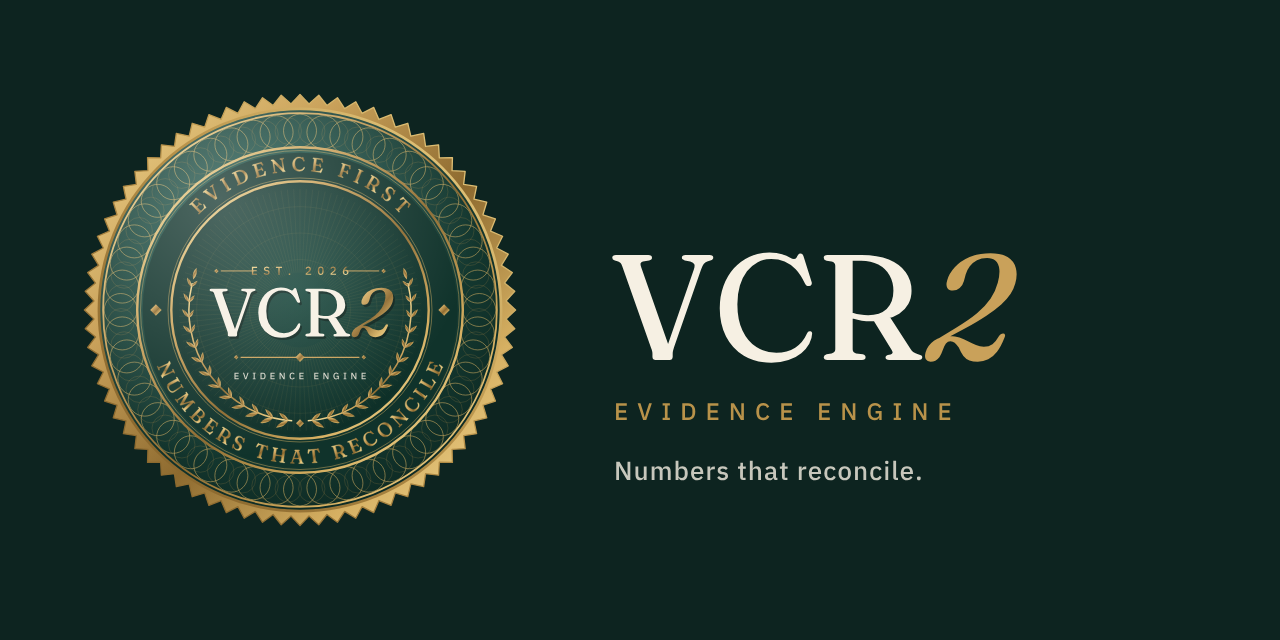
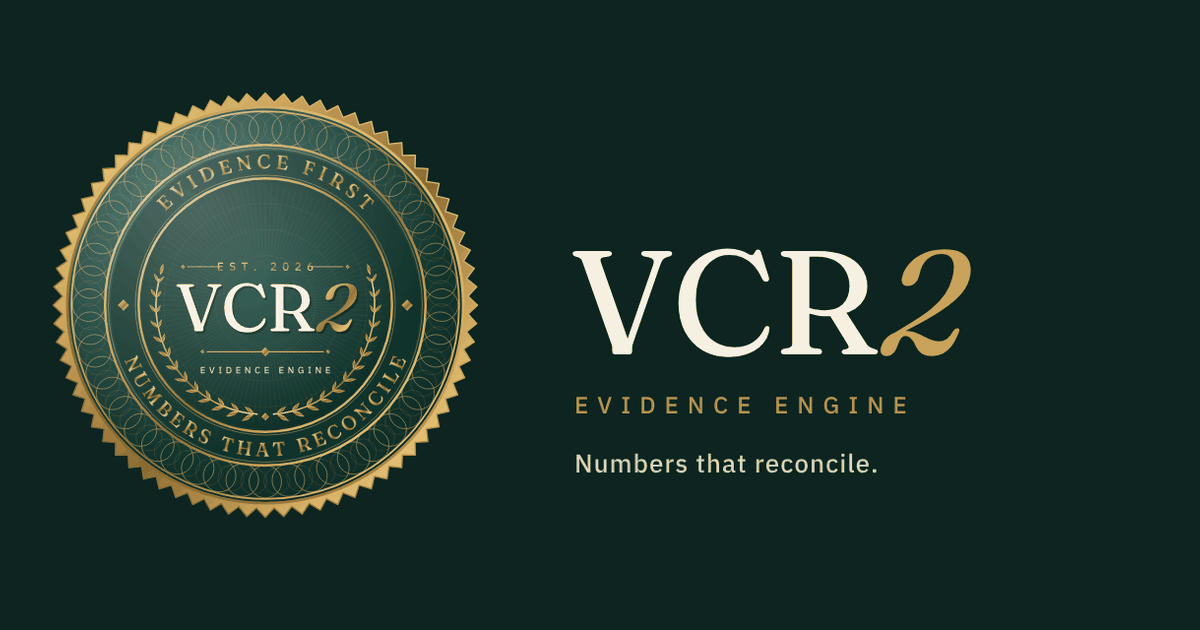
Add a plain AI notice by the Extract button, a 1200 by 630 link preview, a 404 page, a daily uptime check, fresh README screenshots, and cap absurd target returns
Shipped with vcr2-ship

diff --git a/index.html b/index.html
@@ -3,7 +3,7 @@
 <head>
 <meta charset="UTF-8" />
 
-<meta http-equiv="Content-Security-Policy" content="default-src 'none'; script-src 'self' 'unsafe-inline'; script-src-elem 'sha256-n29Q1vFnE6WbRlMeOxGV9fg7LpGFcMmABBgz34A+tJQ=' 'sha256-n1z8jkD0ndqOpk79KGMV0kjI1pRdCcU7IxhPgDxDR+w=' 'sha256-FiB3jNUyHkIPSiuBC/QhYnA1OC91lGmUIv7W6OshGWc='; script-src-attr 'unsafe-inline'; style-src 'self' 'unsafe-inline' file:; img-src 'self' data: blob: file:; font-src 'self' data: file:; connect-src 'self' https://api.github.com https://api.anthropic.com https://api.openai.com https://generativelanguage.googleapis.com https://api.groq.com https://openrouter.ai; worker-src 'self' blob:; media-src 'self' file:; frame-src 'none'; base-uri 'none'; form-action 'none'; object-src 'none'" />
+<meta http-equiv="Content-Security-Policy" content="default-src 'none'; script-src 'self' 'unsafe-inline'; script-src-elem 'sha256-n29Q1vFnE6WbRlMeOxGV9fg7LpGFcMmABBgz34A+tJQ=' 'sha256-n1z8jkD0ndqOpk79KGMV0kjI1pRdCcU7IxhPgDxDR+w=' 'sha256-nK5LsWHbe+/chek/4QjKiXwz6H2ErcPrDMyRaxxfnQM='; script-src-attr 'unsafe-inline'; style-src 'self' 'unsafe-inline' file:; img-src 'self' data: blob: file:; font-src 'self' data: file:; connect-src 'self' https://api.github.com https://api.anthropic.com https://api.openai.com https://generativelanguage.googleapis.com https://api.groq.com https://openrouter.ai; worker-src 'self' blob:; media-src 'self' file:; frame-src 'none'; base-uri 'none'; form-action 'none'; object-src 'none'" />
 <meta name="referrer" content="no-referrer" />
 <meta name="viewport" content="width=device-width, initial-scale=1.0" />
 <title>VCR2: evidence-first diligence engine</title>
@@ -16,8 +16,8 @@
 <meta property="og:title" content="VCR2: check whether the numbers reconcile" />
 <meta property="og:description" content="Rebuilds a startup's revenue from its own customer ledger, reconciles every headline metric, runs forensic tests, simulates runway, prices the deal and learns from your own deal data. Runs entirely in the browser." />
 <meta property="og:image" content="https://vcr2.app/assets/social-preview.png" />
-<meta property="og:image:width" content="1280" />
-<meta property="og:image:height" content="640" />
+<meta property="og:image:width" content="1200" />
+<meta property="og:image:height" content="630" />
 <meta property="og:image:alt" content="VCR2: check whether the numbers reconcile" />
 <meta name="twitter:card" content="summary_large_image" />
 <meta name="twitter:title" content="VCR2: check whether the numbers reconcile" />
@@ -1443,6 +1443,7 @@ Your browser cannot play this video. <a href="assets/video/vcr2-demo-en.mp4">Dow
 </div>
 
 <p class="field-hint ai-own">Uses your own key and your own account. Nothing is billed to the site owner.</p>
+<p class="field-hint ai-sent">“Extract figures with AI” sends only the text in the boxes above, and any files you added here, to the AI provider you chose in the menu, with your key. Nothing else from the form is sent. The key stays in this tab and is forgotten when you close it, unless you tick “Remember this key on this computer”; it is never saved in a deal, a draft or an export.</p>
 <div class="sec-nav">
 <button class="btn btn-ghost" onclick="showPage('setup')">Back</button>
 <div class="sec-nav-right">
@@ -2118,7 +2119,7 @@ function termReview(I,X){const out=[];const add=(term,value,norm,flag,note)=>out
 :bc==='Founders control the board'&&!early?'Common, but at this stage an independent director usually joins.':'In line with the stage.');const prr=gb('pro_rata_rights'),inf=gb('information_rights'),seat=gb('board_seat');if(prr!=null)add('Pro-rata rights',prr?'Yes':'No','Yes, for major investors',prr?'ok':'watch',prr?'We can keep our ownership in the next round.':'No right to follow on: ownership shrinks with every round and the best companies are the hardest to get back into.');if(inf!=null)add('Information rights',inf?'Yes':'No','Yes: quarterly and annual financials',inf?'ok':'watch',inf?'Standard.':'Without them, monitoring the investment depends on goodwill.');if(seat!=null)add('Board or observer seat',seat?'Yes':'No',X.ownEntry!=null&&X.ownEntry>=seatAt?`Usual for a lead with ${fmtPct(seatAt * 100, 0)}+`:`Not expected below ~${fmtPct(seatAt * 100, 0)}`,!seat&&X.ownEntry!=null&&X.ownEntry>=seatAt?'watch':'ok',!seat&&X.ownEntry!=null&&X.ownEntry>=seatAt?`At ${fmtPct(X.ownEntry * 100, 1)} ownership a seat or observer right is normally part of the package.`:'In line with the ownership.');if(X.fTop>0.001)add('Option pool',`top-up of ${fmtPct(X.fTop * 100, 1)} in the pre-money`,'Sized to the hiring plan',X.fTop>poolMax?'watch':'ok',`The pool shuffle lowers the effective pre-money to ${money(X.effPre)}. Check the pool against the 18-month hiring plan rather than a round number.`);const conv=X.fSafe+(X.fNote||0);if(conv>0.001)add('SAFE and note conversion',`${fmtPct(conv * 100, 1)} of the post-money`,'Disclosed in the pre-money',conv>convMax?'watch':'ok','Conversions come out of the pre-money, so the founders (not the new round) absorb them.');return out;}
 const EXIT_DEFAULTS={years:{preseed:8,seed:7,a:6,b:5},irr:{preseed:60,seed:50,a:40,b:30},fcRate:25,probs:{preseed:[65,25,10],seed:[60,28,12],a:[45,40,15],b:[30,50,20]},keepBase:0.7,keepUp:0.85,floorBase:5,floorUp:10,downMultiple:1,};function projectArr(arr,g0,years,keep,floor){let a=arr,g=Math.min(Math.max(g0,0),300);const whole=Math.floor(years),part=years-whole;for(let y=0;y<whole;y++){a*=1+Math.max(g,floor) / 100;g*=keep;}
 if(part>0)a*=Math.pow(1+Math.max(g,floor) / 100,part);return a;}
-function exitScenarios(D,X){const I=X.I,n=id=>gv(id);const years=n('years_to_exit')>0?n('years_to_exit'):EXIT_DEFAULTS.years[stageKey()];const r=n('target_irr')>0?n('target_irr'):EXIT_DEFAULTS.irr[stageKey()];const fc=n('fc_rate')>0?n('fc_rate'):EXIT_DEFAULTS.fcRate;const arr=n('arr_now');const g=D.growth_yoy!=null?D.growth_yoy:D.cmgr12!=null?(Math.pow(1+D.cmgr12 / 100,12)-1)*100:null;const est=[];let arrBase=n('exit_arr_base'),arrUp=n('exit_arr_up'),evDown=n('exit_value_down');if(arrBase==null&&arr>0&&g!=null){arrBase=projectArr(arr,g,years,EXIT_DEFAULTS.keepBase,EXIT_DEFAULTS.floorBase);est.push('base');}
+function exitScenarios(D,X){const I=X.I,n=id=>gv(id);const years=n('years_to_exit')>0?n('years_to_exit'):EXIT_DEFAULTS.years[stageKey()]; const cap=(v,what)=>{if(v>200){X.notes.push(`${what} was ${v}%, above 200%; 200% was used.`);return 200;}return v;};const r=cap(n('target_irr')>0?n('target_irr'):EXIT_DEFAULTS.irr[stageKey()],'The target annual return');const fc=cap(n('fc_rate')>0?n('fc_rate'):EXIT_DEFAULTS.fcRate,'The First Chicago discount rate');const arr=n('arr_now');const g=D.growth_yoy!=null?D.growth_yoy:D.cmgr12!=null?(Math.pow(1+D.cmgr12 / 100,12)-1)*100:null;const est=[];let arrBase=n('exit_arr_base'),arrUp=n('exit_arr_up'),evDown=n('exit_value_down');if(arrBase==null&&arr>0&&g!=null){arrBase=projectArr(arr,g,years,EXIT_DEFAULTS.keepBase,EXIT_DEFAULTS.floorBase);est.push('base');}
 if(arrUp==null&&arr>0&&g!=null){arrUp=projectArr(arr,g,years,EXIT_DEFAULTS.keepUp,EXIT_DEFAULTS.floorUp);est.push('upside');}
 if(arrUp!=null&&arrBase!=null&&arrUp<arrBase)arrUp=arrBase;if(evDown==null){evDown=arr>0?arr*(EXIT_DEFAULTS.downMultiple!=null?EXIT_DEFAULTS.downMultiple:1):0;est.push('downside');}
 if(arrBase==null)return{missing:true,years,r};const dp=EXIT_DEFAULTS.probs[stageKey()];let p=[n('prob_down'),n('prob_base'),n('prob_up')];let probsEstimated=p.every(v=>v==null);const probsPartial=!probsEstimated&&p.some(v=>v==null);p=p.map((v,i)=>v!=null?Math.max(0,v):dp[i]);if(sum(p)<=0){p=dp.slice();probsEstimated=true;}

diff --git a/404.html b/404.html
@@ -1,0 +1,40 @@
+<!doctype html>
+<html lang="en">
+<head>
+<meta http-equiv="Content-Security-Policy" content="default-src 'none'; img-src 'self'; font-src 'self'; style-src 'unsafe-inline'; base-uri 'none'; form-action 'none'" />
+<meta charset="utf-8" />
+<meta name="viewport" content="width=device-width, initial-scale=1" />
+<meta name="referrer" content="no-referrer" />
+<meta name="robots" content="noindex" />
+<meta name="color-scheme" content="light dark" />
+<title>Page not found · VCR2</title>
+<link rel="icon" href="/assets/logo/svg/seal-favicon.svg" type="image/svg+xml" />
+<style>
+@font-face { font-family: 'Fraunces'; src: url('/assets/fonts/fraunces-400-normal.woff2') format('woff2'); font-weight: 400; font-display: swap; }
+@font-face { font-family: 'IBM Plex Sans'; src: url('/assets/fonts/ibm-plex-sans-400-normal.woff2') format('woff2'); font-weight: 400; font-display: swap; }
+@font-face { font-family: 'IBM Plex Sans'; src: url('/assets/fonts/ibm-plex-sans-500-normal.woff2') format('woff2'); font-weight: 500; font-display: swap; }
+:root { --page: #F6EFDF; --card: #FBF6EA; --text: #0E3B34; --text-2: #2D4B45; --gold: #946F2C; --ring: rgba(201,161,90,.55); --btn: #0E3B34; --btn-ink: #F6F1E6; }
+@media (prefers-color-scheme: dark) { :root { --page: #0B2B26; --card: #10342E; --text: #F3ECDD; --text-2: #DCD4C2; --gold: #D9B26A; --btn: #F3ECDD; --btn-ink: #0B2B26; } }
+* { box-sizing: border-box; }
+body { margin: 0; min-height: 100vh; display: grid; place-items: center; padding: 16px; background: var(--page); color: var(--text);
+  font-family: 'IBM Plex Sans', system-ui, sans-serif; line-height: 1.6; }
+main { width: 100%; max-width: 34rem; background: var(--card); border: 1px solid var(--ring); border-radius: 22px; padding: 40px 32px; text-align: center;
+  box-shadow: 0 18px 50px -24px rgba(122, 90, 31, .35); }
+img { width: 72px; height: 72px; }
+.k { margin: 18px 0 4px; font-size: .875rem; letter-spacing: .04em; color: var(--gold); }
+h1 { margin: 0 0 10px; font-family: 'Fraunces', Georgia, serif; font-weight: 400; font-size: 2rem; line-height: 1.15; }
+p { margin: 0 0 24px; color: var(--text-2); }
+a.b { display: inline-block; padding: 10px 22px; border-radius: 999px; background: var(--btn); color: var(--btn-ink); font-weight: 500; text-decoration: none; }
+a.b:focus-visible { outline: 3px solid var(--ring); outline-offset: 3px; }
+</style>
+</head>
+<body>
+<main>
+  <img src="/assets/logo/svg/seal-compact.svg" alt="" width="72" height="72" />
+  <p class="k">404</p>
+  <h1>This page does not exist</h1>
+  <p>The address may be mistyped, or the page may have moved. VCR2 itself lives on one page.</p>
+  <a class="b" href="/">Go to VCR2</a>
+</main>
+</body>
+</html>

diff --git a/src/shell.html b/src/shell.html
@@ -17,8 +17,8 @@
 <meta property="og:title" content="VCR2: check whether the numbers reconcile" />
 <meta property="og:description" content="Rebuilds a startup's revenue from its own customer ledger, reconciles every headline metric, runs forensic tests, simulates runway, prices the deal and learns from your own deal data. Runs entirely in the browser." />
 <meta property="og:image" content="@@SITE_URL@@assets/social-preview.png" />
-<meta property="og:image:width" content="1280" />
-<meta property="og:image:height" content="640" />
+<meta property="og:image:width" content="1200" />
+<meta property="og:image:height" content="630" />
 <meta property="og:image:alt" content="VCR2: check whether the numbers reconcile" />
 <meta name="twitter:card" content="summary_large_image" />
 <meta name="twitter:title" content="VCR2: check whether the numbers reconcile" />
@@ -303,6 +303,7 @@
         </div>
 
         <p class="field-hint ai-own">Uses your own key and your own account. Nothing is billed to the site owner.</p>
+        <p class="field-hint ai-sent">“Extract figures with AI” sends only the text in the boxes above, and any files you added here, to the AI provider you chose in the menu, with your key. Nothing else from the form is sent. The key stays in this tab and is forgotten when you close it, unless you tick “Remember this key on this computer”; it is never saved in a deal, a draft or an export.</p>
         <div class="sec-nav">
           <button class="btn btn-ghost" onclick="showPage('setup')">Back</button>
           <div class="sec-nav-right">

diff --git a/src/deal.js b/src/deal.js
@@ -343,8 +343,10 @@ function projectArr(arr, g0, years, keep, floor) {
 function exitScenarios(D, X) {
   const I = X.I, n = id => gv(id);
   const years = n('years_to_exit') > 0 ? n('years_to_exit') : EXIT_DEFAULTS.years[stageKey()];
-  const r = n('target_irr') > 0 ? n('target_irr') : EXIT_DEFAULTS.irr[stageKey()];
-  const fc = n('fc_rate') > 0 ? n('fc_rate') : EXIT_DEFAULTS.fcRate;
+  /* A return above 200% a year is a typo, not a target: it is limited and the deal notes say so (it would otherwise give "n/a"). */
+  const cap = (v, what) => { if (v > 200) { X.notes.push(`${what} was ${v}%, above 200%; 200% was used.`); return 200; } return v; };
+  const r = cap(n('target_irr') > 0 ? n('target_irr') : EXIT_DEFAULTS.irr[stageKey()], 'The target annual return');
+  const fc = cap(n('fc_rate') > 0 ? n('fc_rate') : EXIT_DEFAULTS.fcRate, 'The First Chicago discount rate');
   const arr = n('arr_now');
   const g = D.growth_yoy != null ? D.growth_yoy : D.cmgr12 != null ? (Math.pow(1 + D.cmgr12 / 100, 12) - 1) * 100 : null;
   const est = [];

diff --git a/tests/browser/logo_test.py b/tests/browser/logo_test.py
@@ -8,6 +8,7 @@ the CNAME file are not). No request leaves the site.
 import os as _os, sys as _sys
 _sys.path.insert(0, _os.path.dirname(_os.path.abspath(__file__)))
 import _paths
+import re
 import asyncio, sys, re, json, pathlib, struct
 from playwright.async_api import async_playwright
 import fontroute
@@ -36,7 +37,11 @@ async def main():
     check('the SVG files have no script, embedded image or outside address', not bad, bad)
 
     sp = ROOT / 'assets' / 'social-preview.png'
-    check('assets/social-preview.png is the 1280 x 640 picture from the pack', png_size(sp) == (1280, 640) and sp.read_bytes() == (L / 'png' / 'social-preview-1280x640.png').read_bytes(), png_size(sp))
+    built = (ROOT / 'index.html').read_text(encoding='utf-8')
+    tags = (re.search(r'og:image:width" content="(\d+)"', built), re.search(r'og:image:height" content="(\d+)"', built))
+    check('assets/social-preview.png is the 1200 x 630 link preview, under 100 KB, and the page says so',
+          png_size(sp) == (1200, 630) and sp.stat().st_size < 100 * 1024 and all(tags) and (int(tags[0].group(1)), int(tags[1].group(1))) == (1200, 630),
+          [png_size(sp), sp.stat().st_size])
 
     site = json.loads((ROOT / 'site.json').read_text(encoding='utf-8'))
     check('site.json says https://vcr2.app/', site.get('url') == 'https://vcr2.app/', site.get('url'))

diff --git a/tests/browser/verify_2026_10_test.py b/tests/browser/verify_2026_10_test.py
@@ -71,6 +71,11 @@ async def main():
         check('plain http on a real host is moved to https, keeping the path, query and hash', pg.url == 'https://vcr2.example/?x=1#studio', [pg.url, hits])
         await pg.goto(BASE); await pg.wait_for_timeout(300)
         check('a local test server on http is left alone', pg.url.startswith('http://127.0.0.1'), pg.url)
+        note = await pg.evaluate("""() => { showPage('intake'); const n = document.querySelector('#page-intake .ai-sent'), b = document.getElementById('extract-btn');
+            return n ? { text: n.innerText, shown: n.getClientRects().length > 0, before: !!(n.compareDocumentPosition(b) & Node.DOCUMENT_POSITION_FOLLOWING) } : null; }""")
+        check('next to "Extract figures with AI", a plain notice says what is sent, to whom, and how the key is kept',
+              note and note['shown'] and note['before'] and all(k in note['text'] for k in ['sends only the text', 'AI provider you chose', 'forgotten when you close it', 'never saved']), note)
+        await pg.evaluate("showPage('intro')")
         canon = await pg.evaluate("(document.querySelector('link[rel=canonical]') || {}).href")
         check('the page names its canonical address (site.json)', canon == 'https://vcr2.app/', canon)
         await b.close()

diff --git a/README.md b/README.md
@@ -21,7 +21,7 @@
 </p>
 
 <p align="center">
-  <a href="CHANGELOG.md"><img alt="Version 5.0.9" src="https://img.shields.io/badge/version-5.0.9-0e3b34?style=flat-square"></a>
+  <a href="CHANGELOG.md"><img alt="Version 5.0.10" src="https://img.shields.io/badge/version-5.0.10-0e3b34?style=flat-square"></a>
   <a href="https://vcr2.app/"><img alt="Live demo" src="https://img.shields.io/badge/demo-live-7a5a1f?style=flat-square"></a>
   <a href="https://github.com/dsaxel05/VCR2/actions/workflows/tests.yml"><img alt="Engine tests" src="https://github.com/dsaxel05/VCR2/actions/workflows/tests.yml/badge.svg"></a>
   <a href="LICENSE"><img alt="Licence: proprietary" src="https://img.shields.io/badge/licence-proprietary-7a5a1f?style=flat-square"></a>
@@ -45,15 +45,15 @@ VCR2 rebuilds them from the raw figures in about a second, shows its working, ne
 
 **Start.** Open the built-in fictional example or begin with your own files.
 
-<p align="center"><img src="docs/media/01-landing.png" alt="VCR2 landing page: 'Check whether the numbers reconcile', with the Northwind Data example showing 134% in the deck against 98.8% from the ledger" width="900"></p>
+<p align="center"><img src="docs/media/01-landing.jpg" alt="VCR2 landing page: 'Check whether the numbers reconcile', with the Northwind Data example showing 134% in the deck against 98.8% from the ledger" width="900"></p>
 
 **Verify.** Every stated figure against the arithmetic behind it, each with the question to ask the founder.
 
-<p align="center"><img src="docs/media/02-verification.png" alt="Verification step listing material discrepancies, such as net revenue retention overstated by 35.2 points" width="900"></p>
+<p align="center"><img src="docs/media/02-verification.jpg" alt="Verification step listing material discrepancies, such as net revenue retention overstated by 35.2 points" width="900"></p>
 
-**Report.** Metrics, risks, runway odds and deal maths in one place. Here the score is withheld until the contradictions are resolved.
+**Report.** Metrics, risks, runway odds and deal maths in one place. Here the score is withheld until the contradictions are resolved. Under All metrics, display-only figures add sales efficiency, churn mix and the ARR the next round needs next to the ARR projected at six months of runway.
 
-<p align="center"><img src="docs/media/03-report.png" alt="Northwind Data report with the score withheld and the key metrics: ARR, growth, net revenue retention, burn multiple, runway, odds and entry multiple" width="900"></p>
+<p align="center"><img src="docs/media/03-report.jpg" alt="Northwind Data report with the score withheld and the key metrics: ARR, growth, net revenue retention, burn multiple, runway, odds and entry multiple" width="900"></p>
 
 ## Try it in 30 seconds
 

diff --git a/CHANGELOG.md b/CHANGELOG.md
@@ -1,5 +1,22 @@
 # Changelog
 
+## v5.0.10: 2026-11-02
+
+A final pass on the live site. Scoring is unchanged (rubric 5.0.0, same run IDs).
+
+### Added
+- **The AI notice says exactly what is sent.** Next to "Extract figures with AI": only the text in the boxes above (and any files added there) goes to the AI provider you chose, with your key; nothing else from the form; the key stays in the tab unless you tick "Remember this key on this computer" and is never saved in a deal, a draft or an export.
+- **A 404 page** in the same look (3 KB, no script, nothing from another site) with a link back to VCR2.
+- **A daily uptime check** (`.github/workflows/uptime.yml`): https://vcr2.app/ answers 200, the certificate has more than 14 days left, the About page text is there, and plain http still moves to https. Plain curl and openssl, no third-party action, no permissions, a 5-minute limit; a failure is a red run and an email.
+
+### Changed
+- **Link previews** use a 1200 by 630 picture (95 KB, was 1280 by 640 and 268 KB), the size LinkedIn, X and email clients expect.
+- **README screenshots** retaken from the live site in the current look, as JPEG (155 to 180 KB each).
+- A target return or First Chicago rate above 200% a year is treated as a typo: 200% is used and the deal notes say so, instead of an exit value of "n/a".
+
+### Under the hood
+- Tests: `tests/site-extras.test.mjs` (the 404 page and the uptime check), the AI notice in `tests/browser/verify_2026_10_test.py`, the return cap in `tests/verify-2026-10.test.mjs`, the new preview size in `tests/browser/logo_test.py`.
+
 ## v5.0.9: 2026-11-02
 
 HTTPS everywhere. Scoring is unchanged (rubric 5.0.0, same run IDs).

diff --git a/SECURITY.md b/SECURITY.md
@@ -20,7 +20,7 @@
 
 ## The live site is watched
 
-`.github/workflows/live-check.yml` runs `tools/live_check.py` every six hours: https://vcr2.app/ must serve, byte for byte and over a valid certificate, the page, the configuration, the logos and the fonts that this repository holds. Code tests cannot see a hijacked domain, a changed DNS record or a page altered outside the repository; this check can, and GitHub emails the owner when it fails.
+`.github/workflows/live-check.yml` runs `tools/live_check.py` every six hours: https://vcr2.app/ must serve, byte for byte and over a valid certificate, the page, the configuration, the logos and the fonts that this repository holds. Code tests cannot see a hijacked domain, a changed DNS record or a page altered outside the repository; this check can, and GitHub emails the owner when it fails. `.github/workflows/uptime.yml` also checks once a day that the site answers, that its certificate has more than 14 days left, that the About page is there and that plain http still moves to https.
 
 ### If the live site check fails
 
